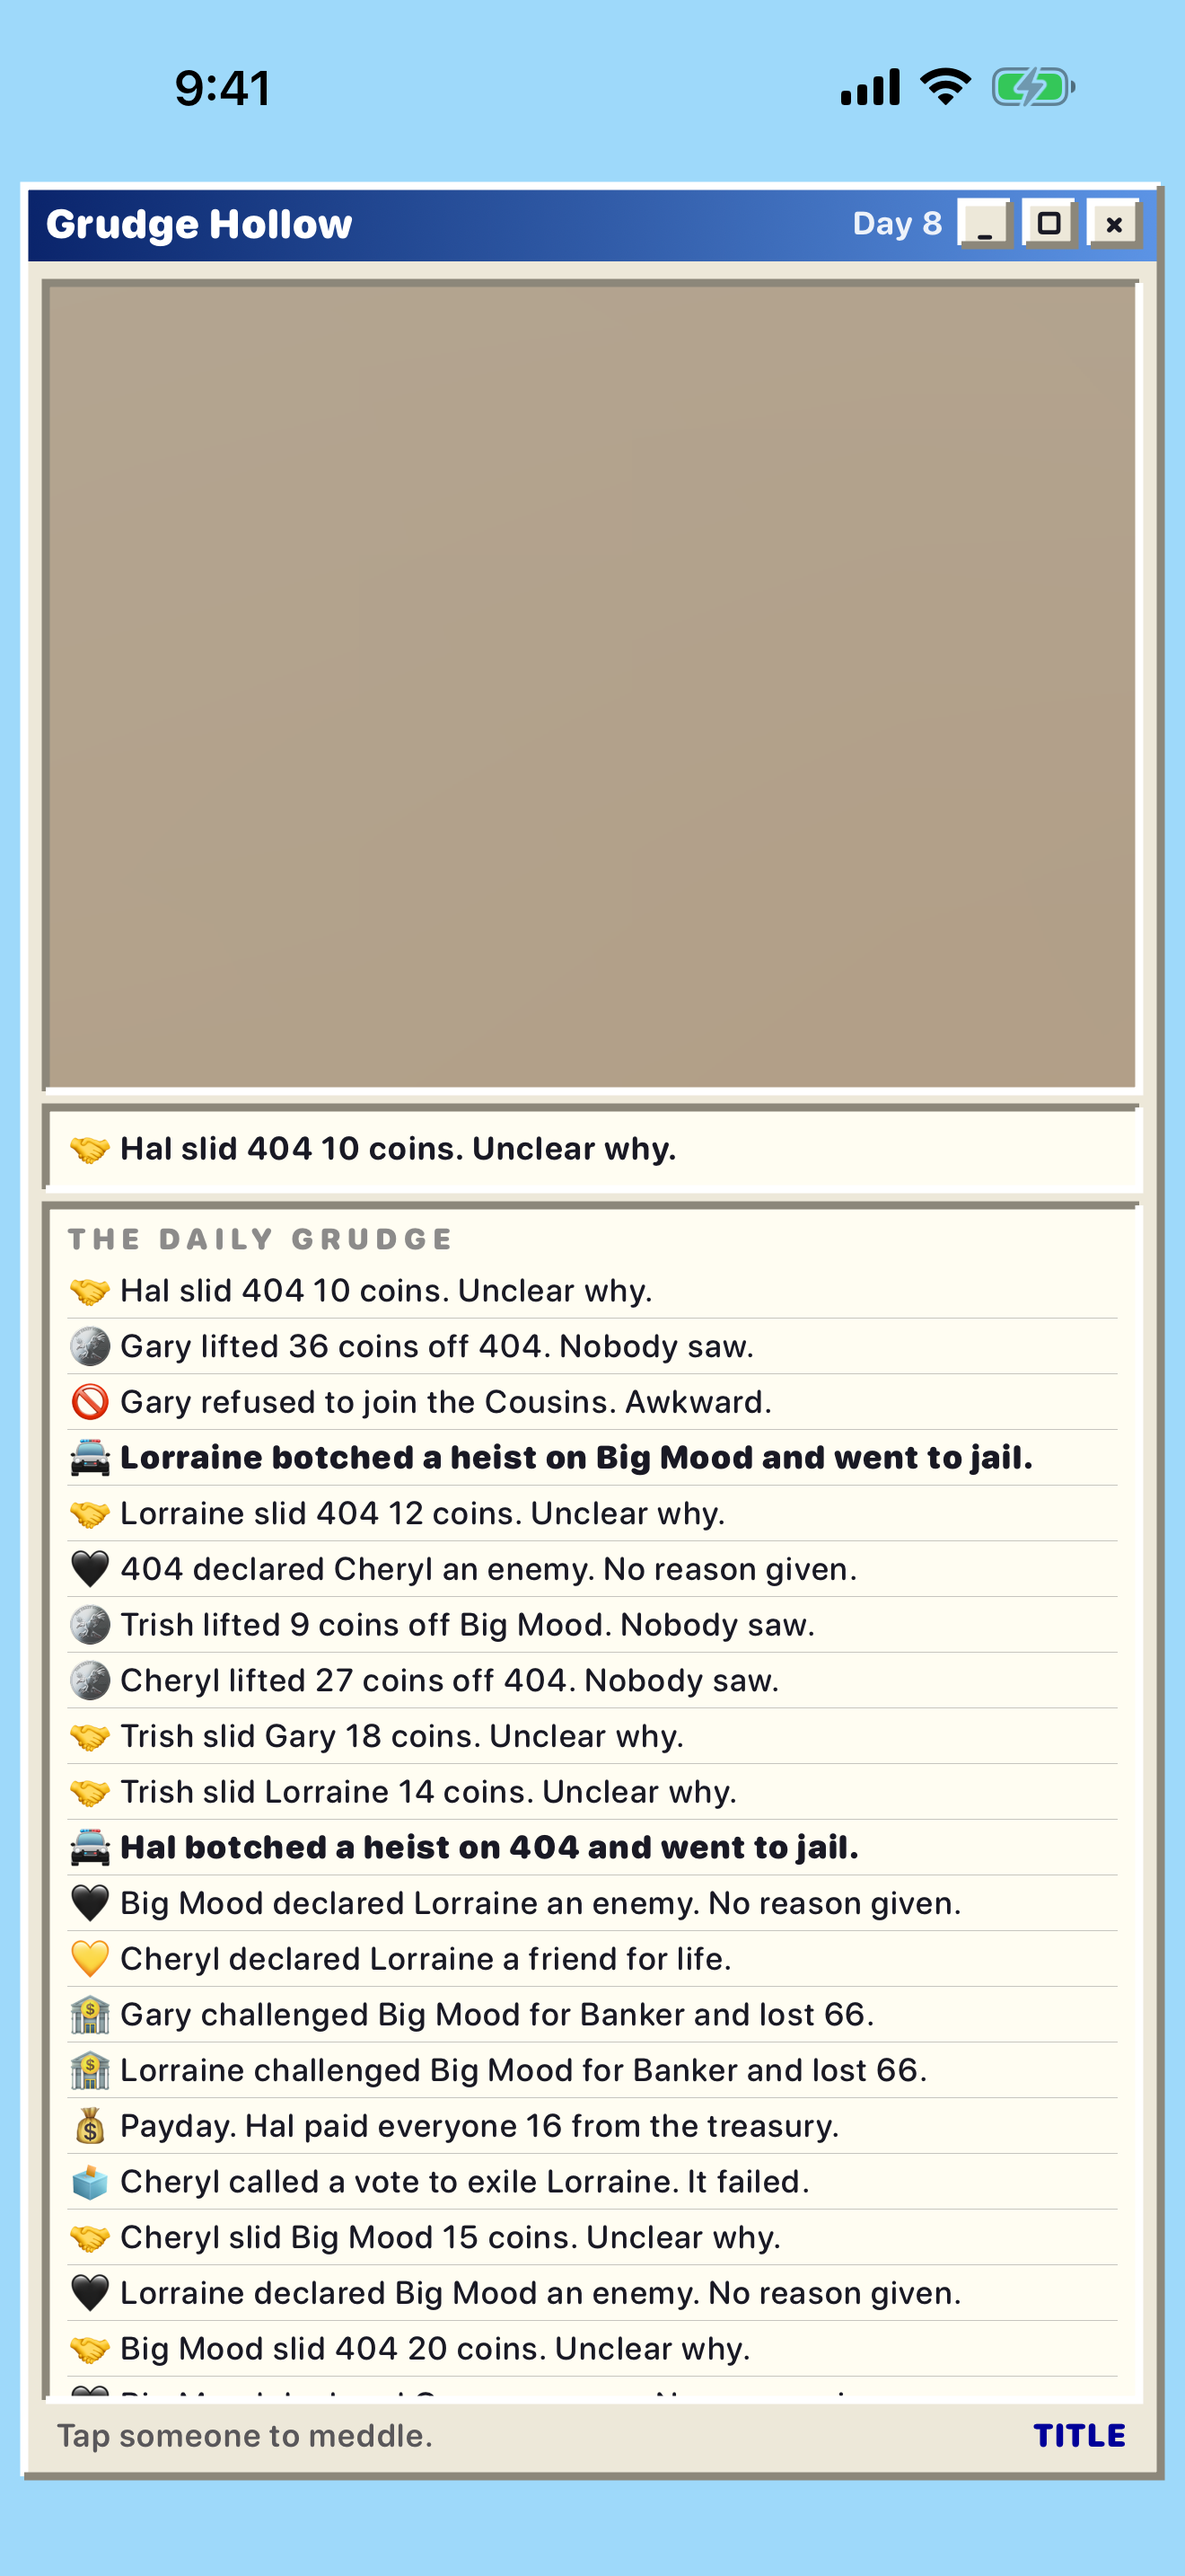
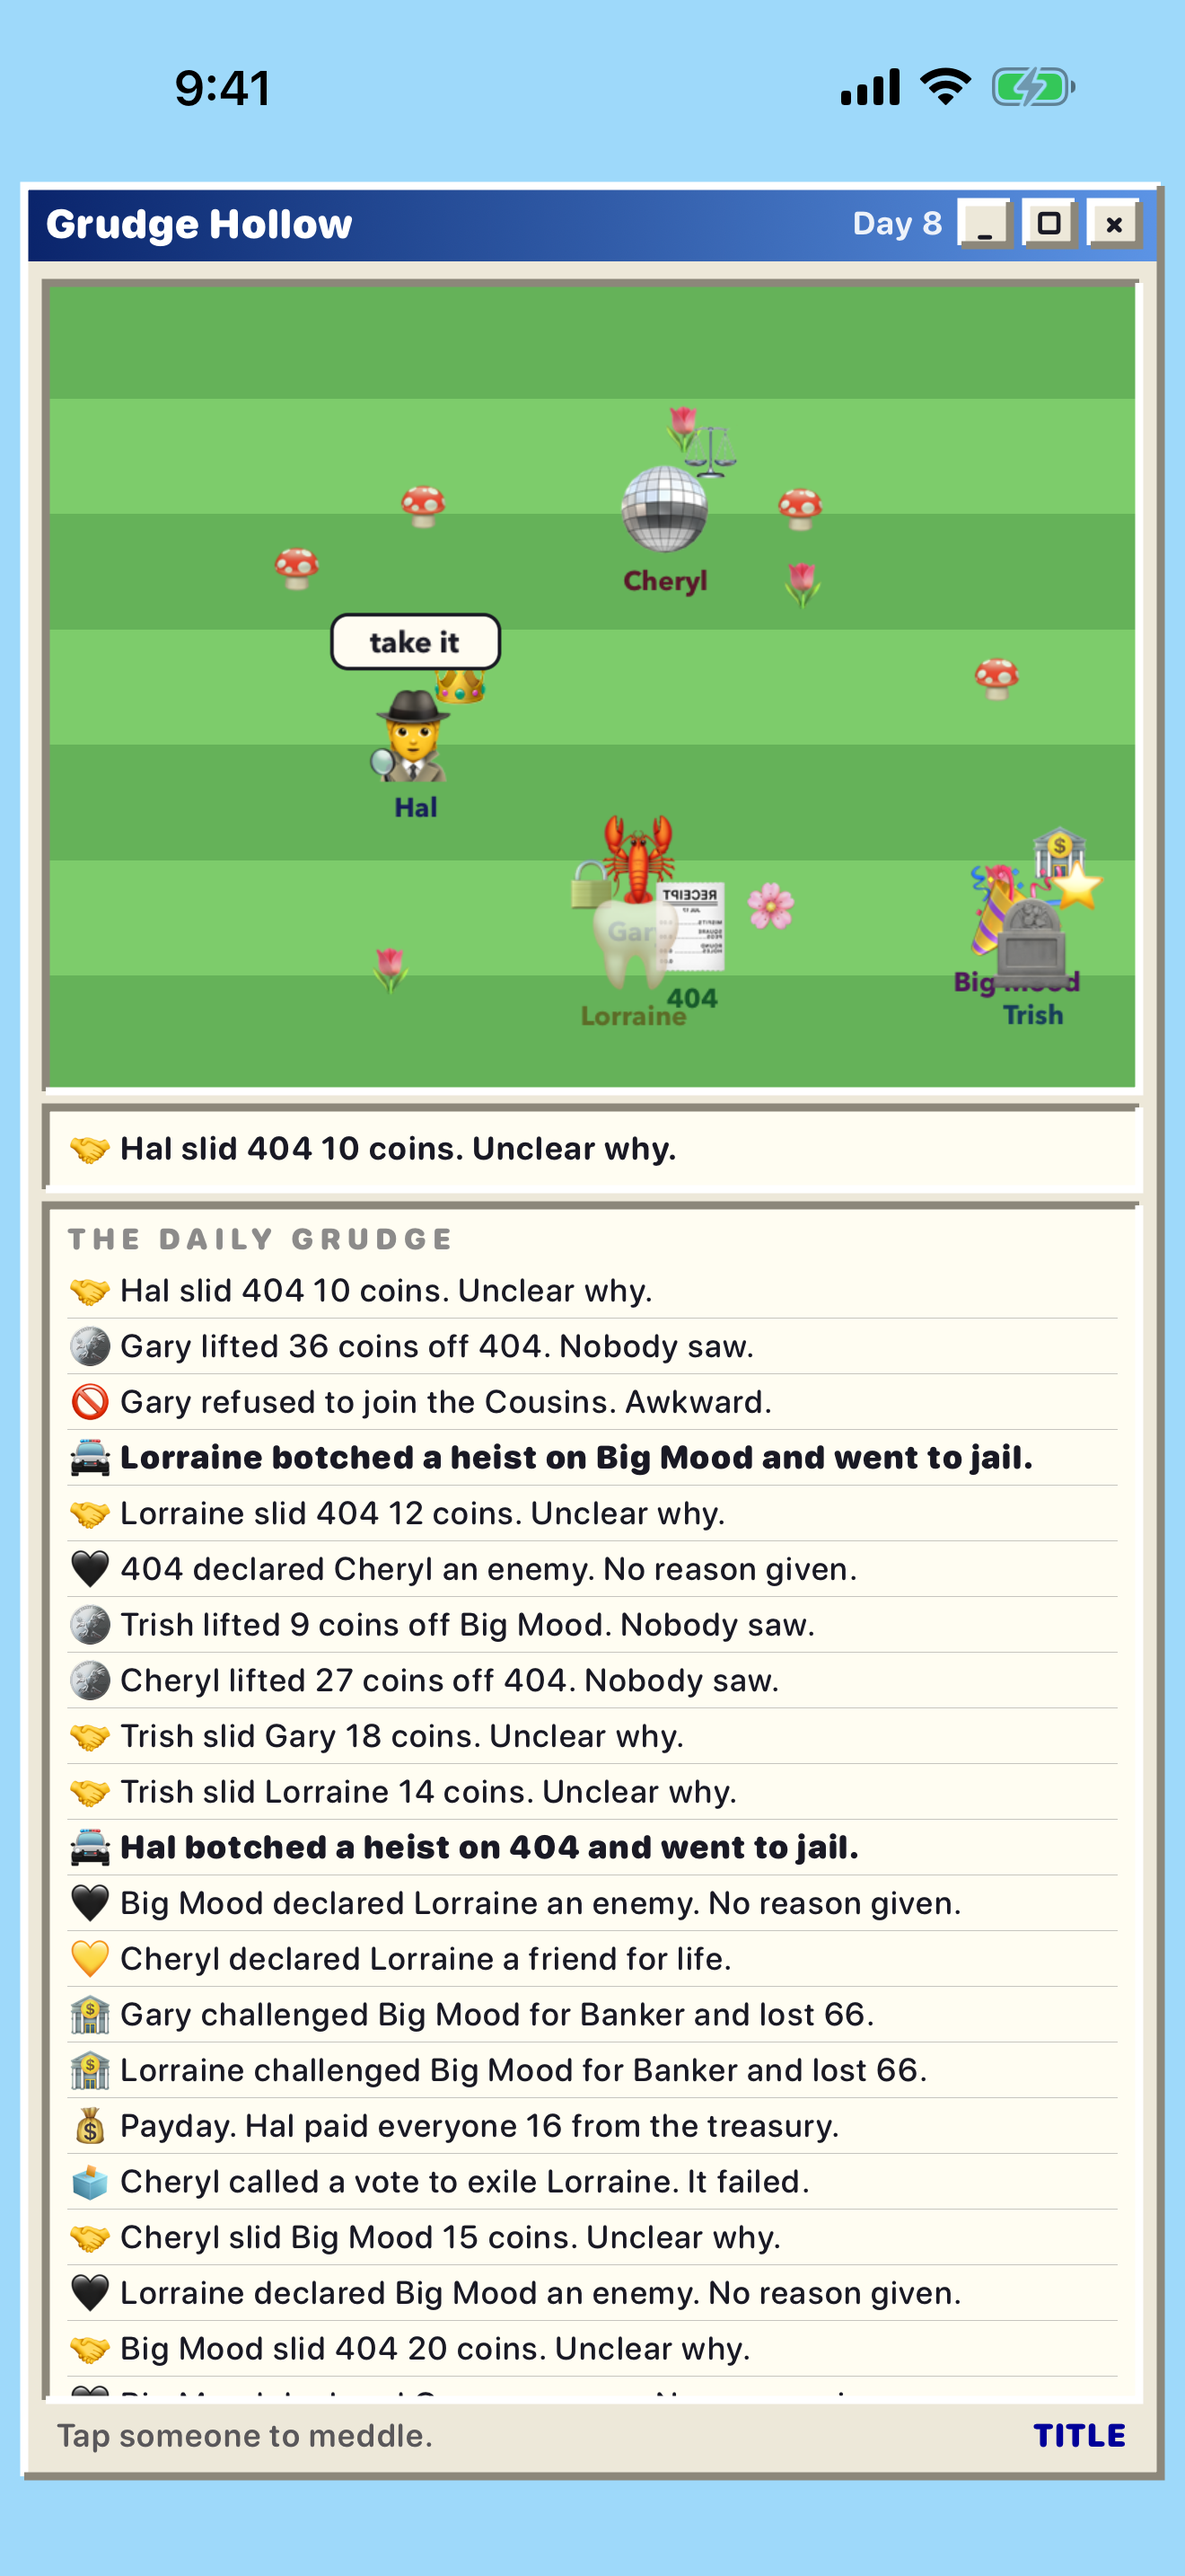
Spread the sprites out and stop mirroring faces
Claude-Session: https://claude.ai/code/session_01PzeiKgJKdB4CzN38JRxDPp

Changed region(s): [[0.0311, 0.0931, 0.9629, 0.4344]]

diff --git a/Sources/App/YardView.swift b/Sources/App/YardView.swift
@@ -98,8 +98,11 @@ final class YardScene: SKScene {
 
     private func make(_ b: Being) -> Sprite {
         let s = Sprite()
-        s.x = Double(dice.roll(8, 92)) / 100
-        s.y = Double(dice.roll(15, 85)) / 100
+        // Each newcomer takes the emptiest slot of a loose grid, so seven of
+        // them never start in a heap.
+        let slot = sprites.count % 8
+        s.x = 0.14 + Double(slot % 4) * 0.24 + Double(dice.roll(-4, 4)) / 100
+        s.y = 0.30 + Double(slot / 4) * 0.40 + Double(dice.roll(-6, 6)) / 100
         s.vx = Double(dice.roll(-40, 40)) / 10000
         s.vy = Double(dice.roll(-20, 20)) / 10000
         s.bob = Double(dice.roll(0, 628)) / 100
@@ -188,17 +191,26 @@ final class YardScene: SKScene {
             if s.x > 0.94 { s.x = 0.94; s.vx = -abs(s.vx) }
             if s.y < 0.12 { s.y = 0.12; s.vy = abs(s.vy) }
             if s.y > 0.86 { s.y = 0.86; s.vy = -abs(s.vy) }
-            if s.vx != 0 { s.face.xScale = s.vx > 0 ? 1 : -1 }
         }
 
-        // Bumping into each other is where the personality comes from.
+        // Bumping into each other is where the personality comes from. They
+        // also get pushed apart a little, so nobody stands inside anyone.
         for i in 0..<list.count {
             for j in (i + 1)..<list.count {
                 let a = list[i], b = list[j]
                 let dx = a.x - b.x, dy = (a.y - b.y) * 0.5
-                if dx * dx + dy * dy < 0.0035 {
-                    a.vx = -a.vx; b.vx = -b.vx
-                    a.restUntil = now + 0.5; b.restUntil = now + 0.5
+                let d2 = dx * dx + dy * dy
+                if d2 < 0.006 {
+                    let d = max(0.01, sqrt(d2))
+                    let push = (0.08 - d) * 0.15
+                    if push > 0 {
+                        a.x += dx / d * push; b.x -= dx / d * push
+                        a.y += dy / d * push * 0.5; b.y -= dy / d * push * 0.5
+                    }
+                    if d2 < 0.0035, now >= a.restUntil, now >= b.restUntil {
+                        a.vx = -a.vx; b.vx = -b.vx
+                        a.restUntil = now + 0.5; b.restUntil = now + 0.5
+                    }
                 }
             }
         }
